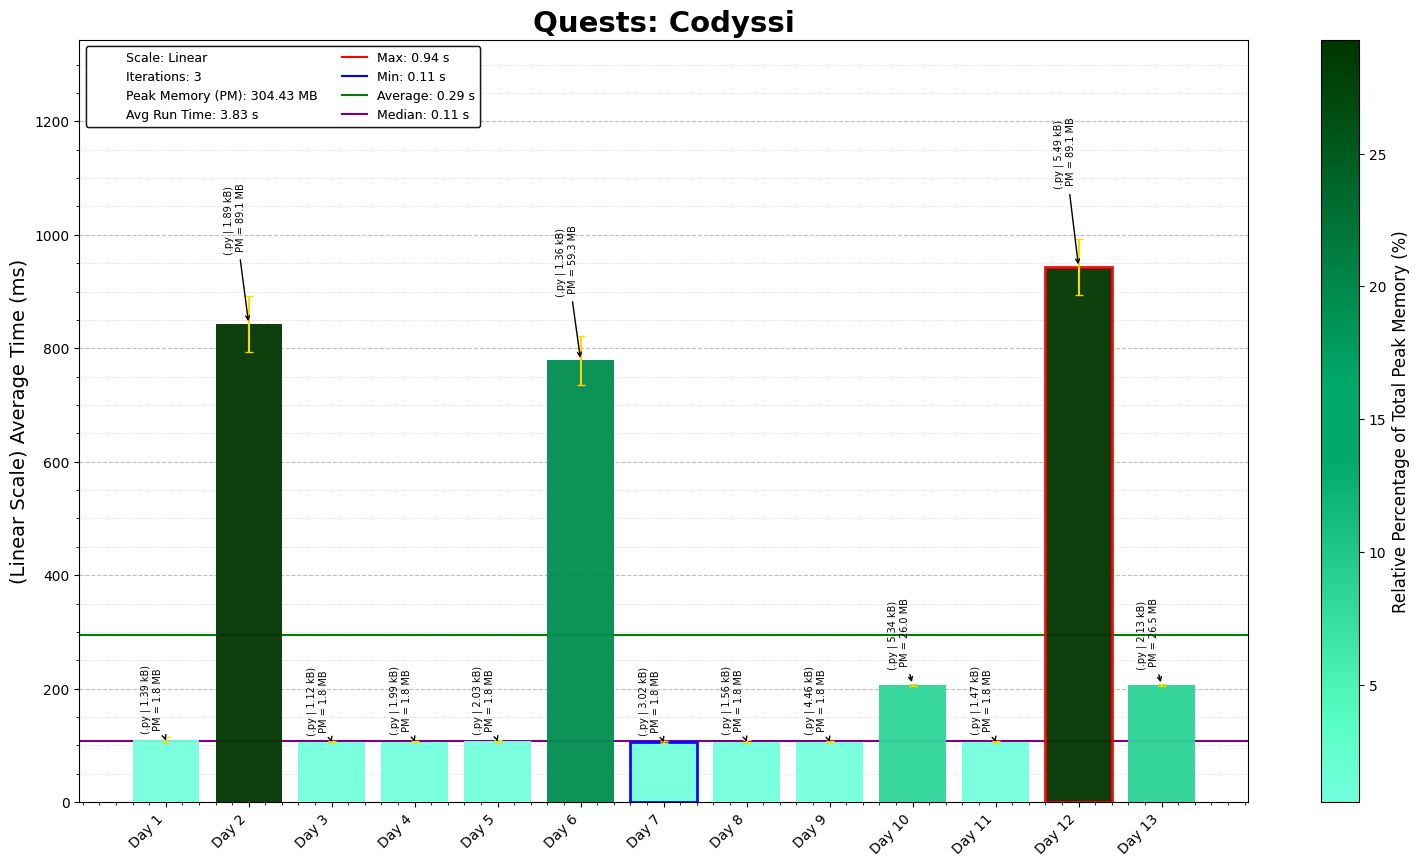
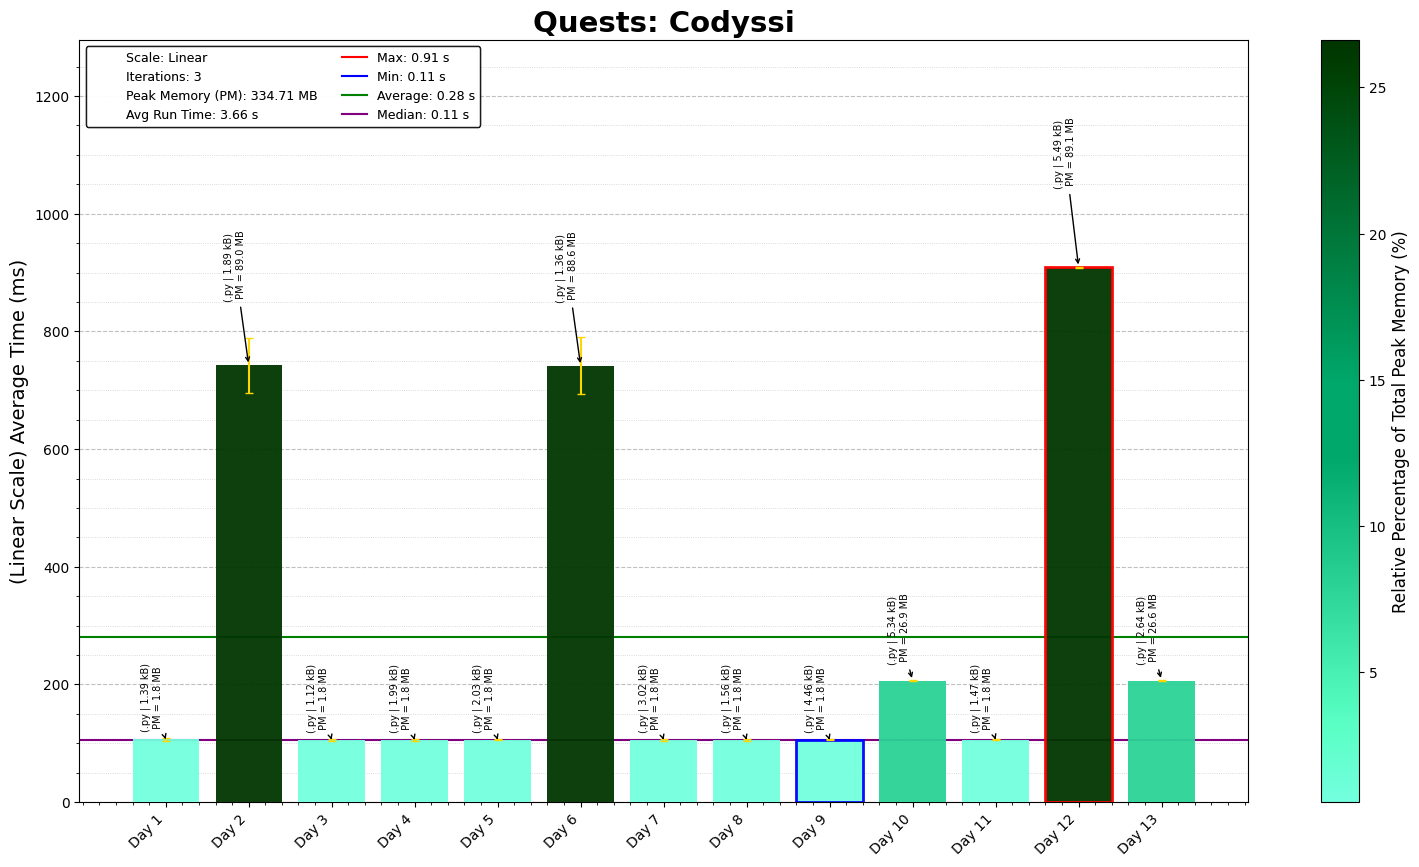
Codyssi 13 P3

diff --git a/Codyssi/2025/13/CodyssiDay13.py b/Codyssi/2025/13/CodyssiDay13.py
@@ -12,7 +12,7 @@ import numpy as np
 from collections import defaultdict, deque
 
 # Load the input data from the specified file path
-D13_file = "Day13_input1.txt"
+D13_file = "Day13_input.txt"
 D13_file_path = os.path.join(os.path.dirname(os.path.abspath(__file__)), D13_file)
 
 # Read and sort input data into a grid
@@ -62,13 +62,19 @@ def find_weighted_paths(graph, start):
 shortest_paths = find_weighted_paths(loc_graph, 'STT')
 print("Part 2:", np.prod(sorted(shortest_paths.values())[-3:]))
 
-def identify_cycles(paths, graph):
-    cycle_lens = [0]
-    possible_cycles = {}
-    for start, nodes in graph.items():
-        print(start, nodes)
+def identify_cycles(graph):
+    def dfs(node, start, path, total):
+        for dest, dist in graph.get(node, []):
+            if dest == start:
+                # Found a cycle
+                cycle_lens.append(total + dist)
+            elif dest not in path:
+                dfs(dest, start, path + [dest], total + dist)
+
+    cycle_lens = []
+    for start in graph:
+        dfs(start, start, [start], 0)
     return cycle_lens
 
-print(ship_paths)
-cycle_lens = identify_cycles(ship_paths, loc_graph)
+cycle_lens = identify_cycles(loc_graph)
 print("Part 3:", max(cycle_lens))
